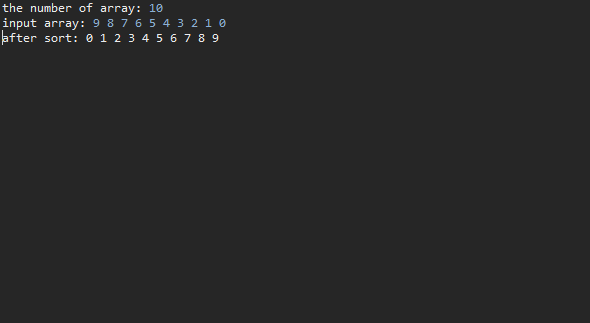
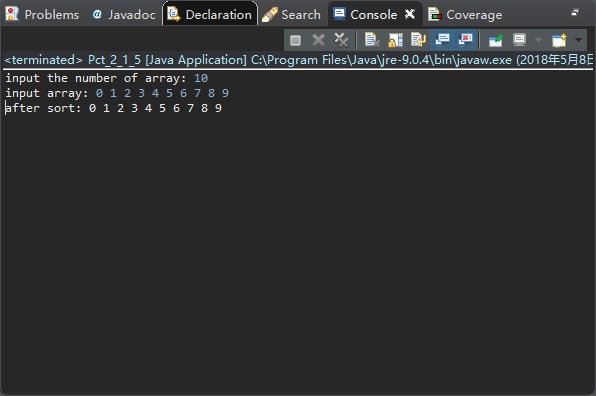
2018.5.8 pct_2_1_5

Changed region(s): [[0.0, 0.0, 1.0, 0.3096], [0.0, 0.9907, 1.0, 1.0]]

diff --git a/src/chapter_2/Pct_2_1_5.md b/src/chapter_2/Pct_2_1_5.md
@@ -1,0 +1,31 @@
+#### pct_2_1_5 构造一个含有个N个元素的数组，使插入排序（算法2.2）运行过程中内循环（for）的两个判断结果总是假。<br/><br/>
+
+import edu.princeton.cs.algs4.Insertion;<br/>
+import edu.princeton.cs.algs4.StdIn;<br/>
+import edu.princeton.cs.algs4.StdOut;
+
+public class Pct_2_1_5 {
+
+	public static void main(String[] args) {
+		// TODO Auto-generated method stub
+		int N;
+		StdOut.print("input the number of array: ");
+		N=StdIn.readInt();
+		StdOut.print("input array: ");
+		Integer[] a=new Integer[N];
+
+		for (int i = 0; i < N; i++) {
+			a[i]=StdIn.readInt();
+		}
+
+		Insertion.sort(a);
+
+		StdOut.print("after sort: ");
+		for (int i = 0; i < N; i++) {
+			StdOut.printf("%d ",a[i]);
+		}
+	}
+}
+
+输入一组顺序数组序列内循环两个判断结果为假，例如：0 1 2 3 4 5 6 7 8 9<br/>
+![](.png) 
